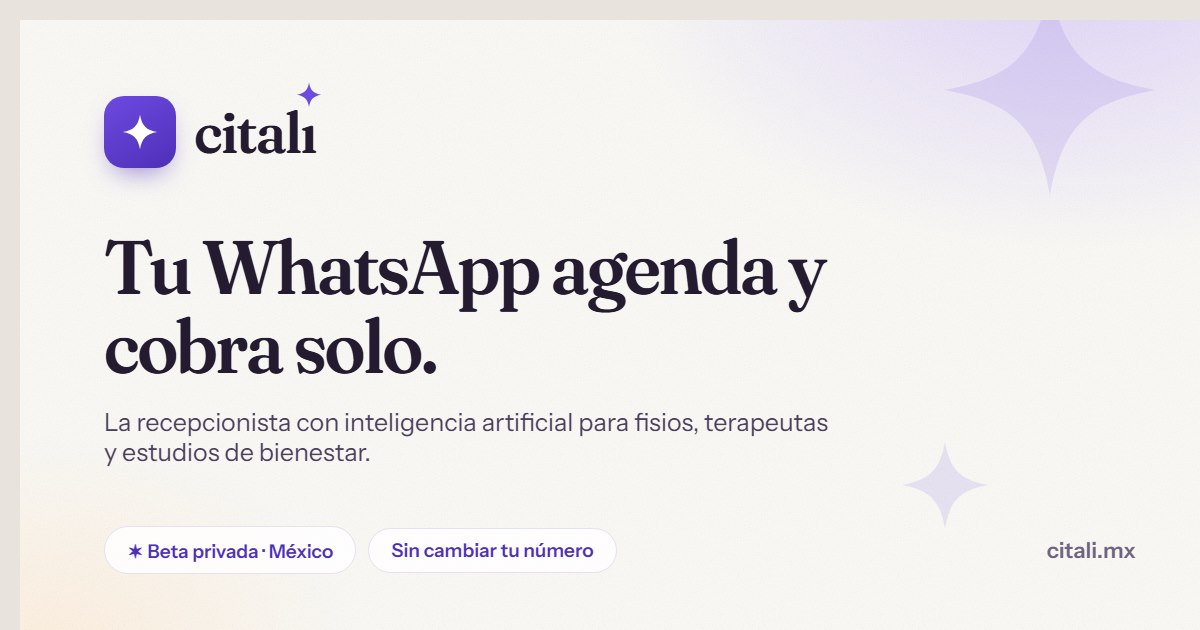
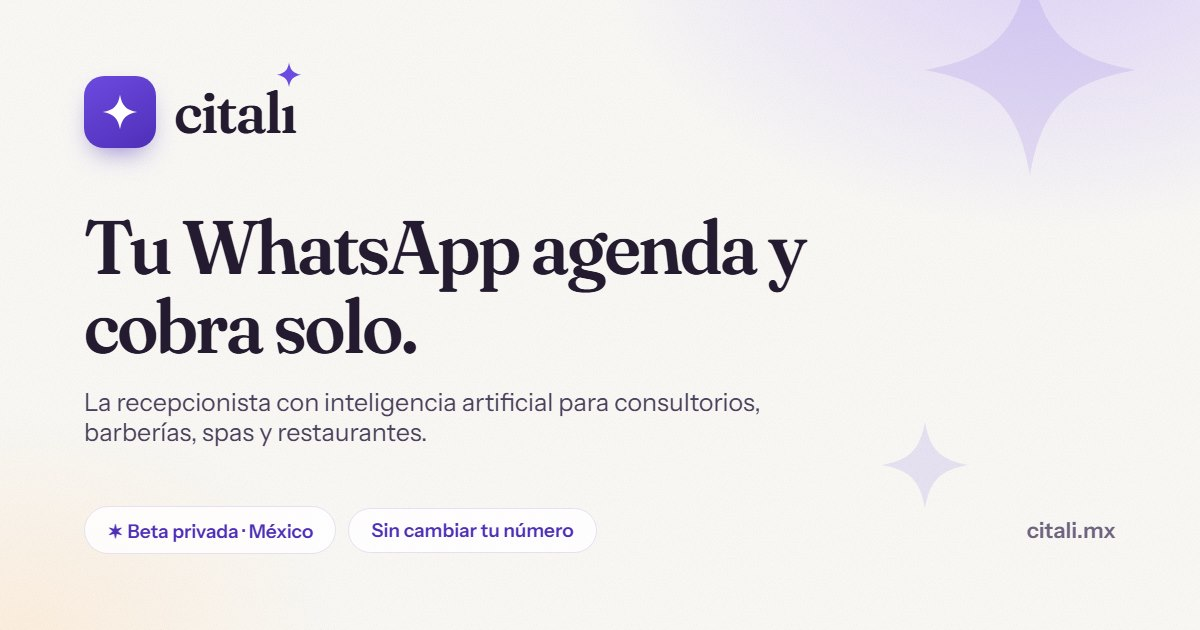
Abre el nicho en la tarjeta para redes y el SEO
El copy decia "para fisioterapeutas y terapeutas", que deja fuera a
barberias, restaurantes y al resto de negocios que agendan por WhatsApp.

- og:description ahora dice "para tu negocio"
- La imagen og.jpg nombra consultorios, barberias, spas y restaurantes
- meta description acompana el mismo cambio
- og:image lleva ?v=2 para que Facebook y WhatsApp no sirvan la imagen
  vieja desde cache: el archivo conserva el nombre y sin el parametro
  la tarjeta se quedaria con la version anterior

La landing sigue escrita para salud (hero, vocabulario, los 18 rubros
del formulario). Eso queda pendiente y es una decision aparte.

diff --git a/index.html b/index.html
@@ -4,7 +4,7 @@
 <meta charset="UTF-8">
 <meta name="viewport" content="width=device-width, initial-scale=1, viewport-fit=cover">
 <title>Citali — Tu WhatsApp agenda y cobra solo</title>
-<meta name="description" content="Citali contesta el WhatsApp de tu consultorio, ofrece tus horarios libres, cobra el anticipo y confirma la cita. Para fisioterapeutas y terapeutas en México.">
+<meta name="description" content="Citali contesta el WhatsApp de tu negocio, ofrece tus horarios libres, cobra el anticipo y confirma la cita. Para consultorios, barberías, spas y restaurantes en México.">
 <meta name="theme-color" content="#17111F">
 <link rel="canonical" href="https://citali.mx/">
 
@@ -13,8 +13,8 @@
 <meta property="og:site_name" content="Citali">
 <meta property="og:url" content="https://citali.mx/">
 <meta property="og:title" content="Tu WhatsApp agenda y cobra solo — Citali">
-<meta property="og:description" content="La recepcionista con inteligencia artificial para fisioterapeutas y terapeutas. Contesta desde tu mismo número, cobra el anticipo y confirma la cita.">
-<meta property="og:image" content="https://citali.mx/og.jpg">
+<meta property="og:description" content="La recepcionista con inteligencia artificial para tu negocio. Contesta desde tu mismo número, cobra el anticipo y confirma la cita.">
+<meta property="og:image" content="https://citali.mx/og.jpg?v=2">
 <meta property="og:image:type" content="image/jpeg">
 <meta property="og:image:alt" content="Citali — Tu WhatsApp agenda y cobra solo">
 <meta property="og:image:width" content="1200">

diff --git a/og-image.html b/og-image.html
@@ -78,7 +78,7 @@
 
   <div>
     <h1>Tu WhatsApp agenda y cobra solo.</h1>
-    <p class="sub">La recepcionista con inteligencia artificial para fisios, terapeutas y estudios de bienestar.</p>
+    <p class="sub">La recepcionista con inteligencia artificial para consultorios, barberías, spas y restaurantes.</p>
   </div>
 
   <div class="foot">
